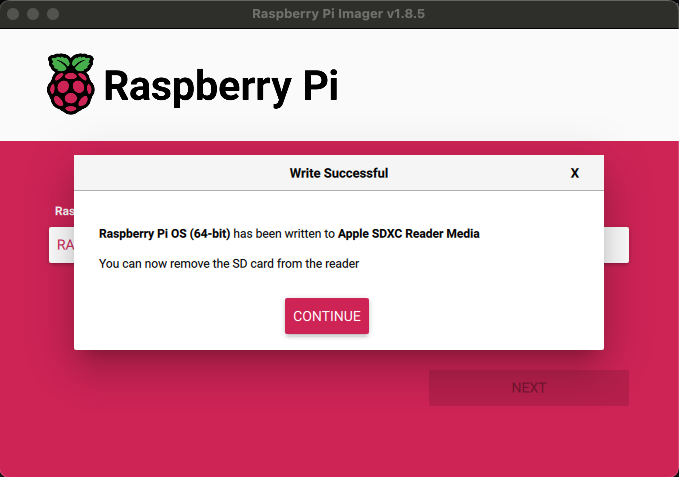
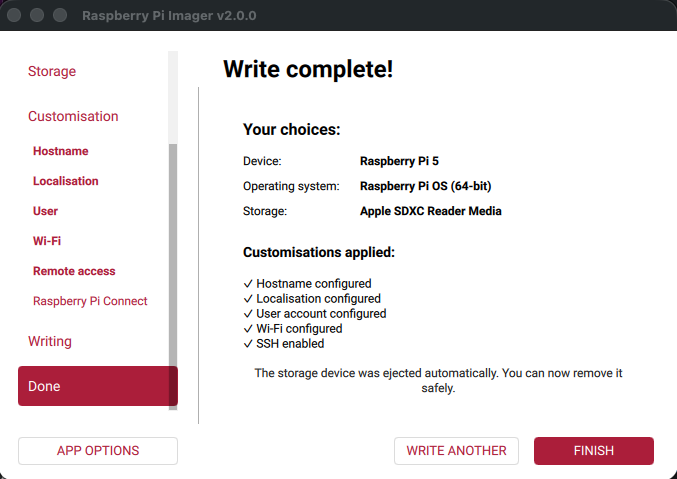
New imager

diff --git a/content/prepare/sd-card.md b/content/prepare/sd-card.md
@@ -6,35 +6,37 @@ weight: 16
 The SD card will hold the operating system. On the Raspberry Pi website, [on the download page, you can
 find the Imager tool](https://www.raspberrypi.org/software/). Select the version for your computer, download, and install it.
 
-![Imager download](/assets/getting-started/setup/download-imager.png)
+![Imager download](/assets/getting-started/setup/website-download.png)
 
 Start the Imager and follow these steps:
 
 1. Put the SD Card in your computer
-1. Click "Choose Device" and select your type of board
-1. Click "Choose OS" > "Raspberry Pi OS (64-bit)" (or 32-bit for an older board)
-1. Click "Choose Storage" and select your SD card
-1. Click "Next" 
-1. In the "Use OS customisation?" screen, click "Edit Settings" 
-1. In "General", fill in a name for your board, login, password, wifi settings, etc.
-1. In "Services", enable SSH with password authentication
-1. In "Options" you can disable telemetry.
-1. Back in the "Use OS customisation?" screen, click "Yes"
-1. Confirm with "Yes" that all data on the SD Card can be overwritten
-1. Wait until "Writing" and "Verifying" are finished
+1. **Device**: Select your type of board, click "Next"
+1. **OS**: Select "Raspberry Pi OS (64-bit)" (or 32-bit for an older board), click "Next"
+1. **Storage**: Select the SD card, click "Next"
+1. **Hostname**: Fill in a name for your board, click "Next"
+1. **Localisation**: Select your city, time zone, and keyboard layout, click "Next"
+1. **User**: Fill in a username and password, click "Next"
+1. **Wi-Fi**: Fill in the name of your Wi-Fi network, and the password, click "Next"
+1. **Remote access**: Enable SSH so you can access the board remotely, click "Next"
+1. **Raspberry Pi Connect**: Enable this if you want to able to access the board via Raspberry Pi Connect, click "Next"
+1. **Writing**: Now you get a short overview of your choices, click "Write"
+1. Confirm you want to erase all data from the SD card. Double check you have put the right SD card in your computer and you selected that one in the **Storage** step. Click "I understand, erase and write".
+1. Wait until the writing is finished...
 1. You can now take the SD Card out of your computer, and put it in the Raspberry Pi
 
 {{< gallery >}}
-{{< figure link="/assets/getting-started/setup/imager-start.png" caption="Imager start screen" caption-position="center" caption-effect="fade" >}}
-{{< figure link="/assets/getting-started/setup/imager-choose-device.png" caption="Selecting the device" caption-position="center" caption-effect="fade" >}}
+{{< figure link="/assets/getting-started/setup/imager-device.png" caption="Selecting the device" caption-position="center" caption-effect="fade" >}}
 {{< figure link="/assets/getting-started/setup/imager-os.png" caption="Selecting the operating system" caption-position="center" caption-effect="fade" >}}
-{{< figure link="/assets/getting-started/setup/imager-sd.png" caption="Selecting the SD card" caption-position="center" caption-effect="fade" >}}
-{{< figure link="/assets/getting-started/setup/imager-customisation-start.png" caption="Customisation start screen" caption-position="center" caption-effect="fade" >}}
-{{< figure link="/assets/getting-started/setup/imager-customisation-general.png" caption="Customisation: General settings" caption-position="center" caption-effect="fade" >}}
-{{< figure link="/assets/getting-started/setup/imager-customisation-services.png" caption="Customisation: Services" caption-position="center" caption-effect="fade" >}}
-{{< figure link="/assets/getting-started/setup/imager-customisation-options.png" caption="Customisation: Options" caption-position="center" caption-effect="fade" >}}
-{{< figure link="/assets/getting-started/setup/imager-writing.png" caption="Writing to the SD card" caption-position="center" caption-effect="fade" >}}
-{{< figure link="/assets/getting-started/setup/imager-verifying.png" caption="Verifying the SD card" caption-position="center" caption-effect="fade" >}}
-{{< figure link="/assets/getting-started/setup/imager-done.png" caption="Imager is finished" caption-position="center" caption-effect="fade" >}}
+{{< figure link="/assets/getting-started/setup/imager-storage.png" caption="Selecting the SD card" caption-position="center" caption-effect="fade" >}}
+{{< figure link="/assets/getting-started/setup/imager-hostname.png" caption="Specify the hostname" caption-position="center" caption-effect="fade" >}}
+{{< figure link="/assets/getting-started/setup/imager-localisation.png" caption="Specify the localization settings" caption-position="center" caption-effect="fade" >}}
+{{< figure link="/assets/getting-started/setup/imager-wifi.png" caption="Specify the Wi-Fi settings" caption-position="center" caption-effect="fade" >}}
+{{< figure link="/assets/getting-started/setup/imager-ssh.png" caption="Enable SSH" caption-position="center" caption-effect="fade" >}}
+{{< figure link="/assets/getting-started/setup/imager-connect.png" caption="Enable Connect if needed" caption-position="center" caption-effect="fade" >}}
+{{< figure link="/assets/getting-started/setup/imager-write-check.png" caption="Double check before writing" caption-position="center" caption-effect="fade" >}}
+{{< figure link="/assets/getting-started/setup/imager-write-confirm.png" caption="Confirm to write" caption-position="center" caption-effect="fade" >}}
+{{< figure link="/assets/getting-started/setup/imager-writing.png" caption="Writing progress" caption-position="center" caption-effect="fade" >}}
+{{< figure link="/assets/getting-started/setup/imager-done.png" caption="Done" caption-position="center" caption-effect="fade" >}}
 {{< /gallery >}}
 {{< load-photoswipe >}}
